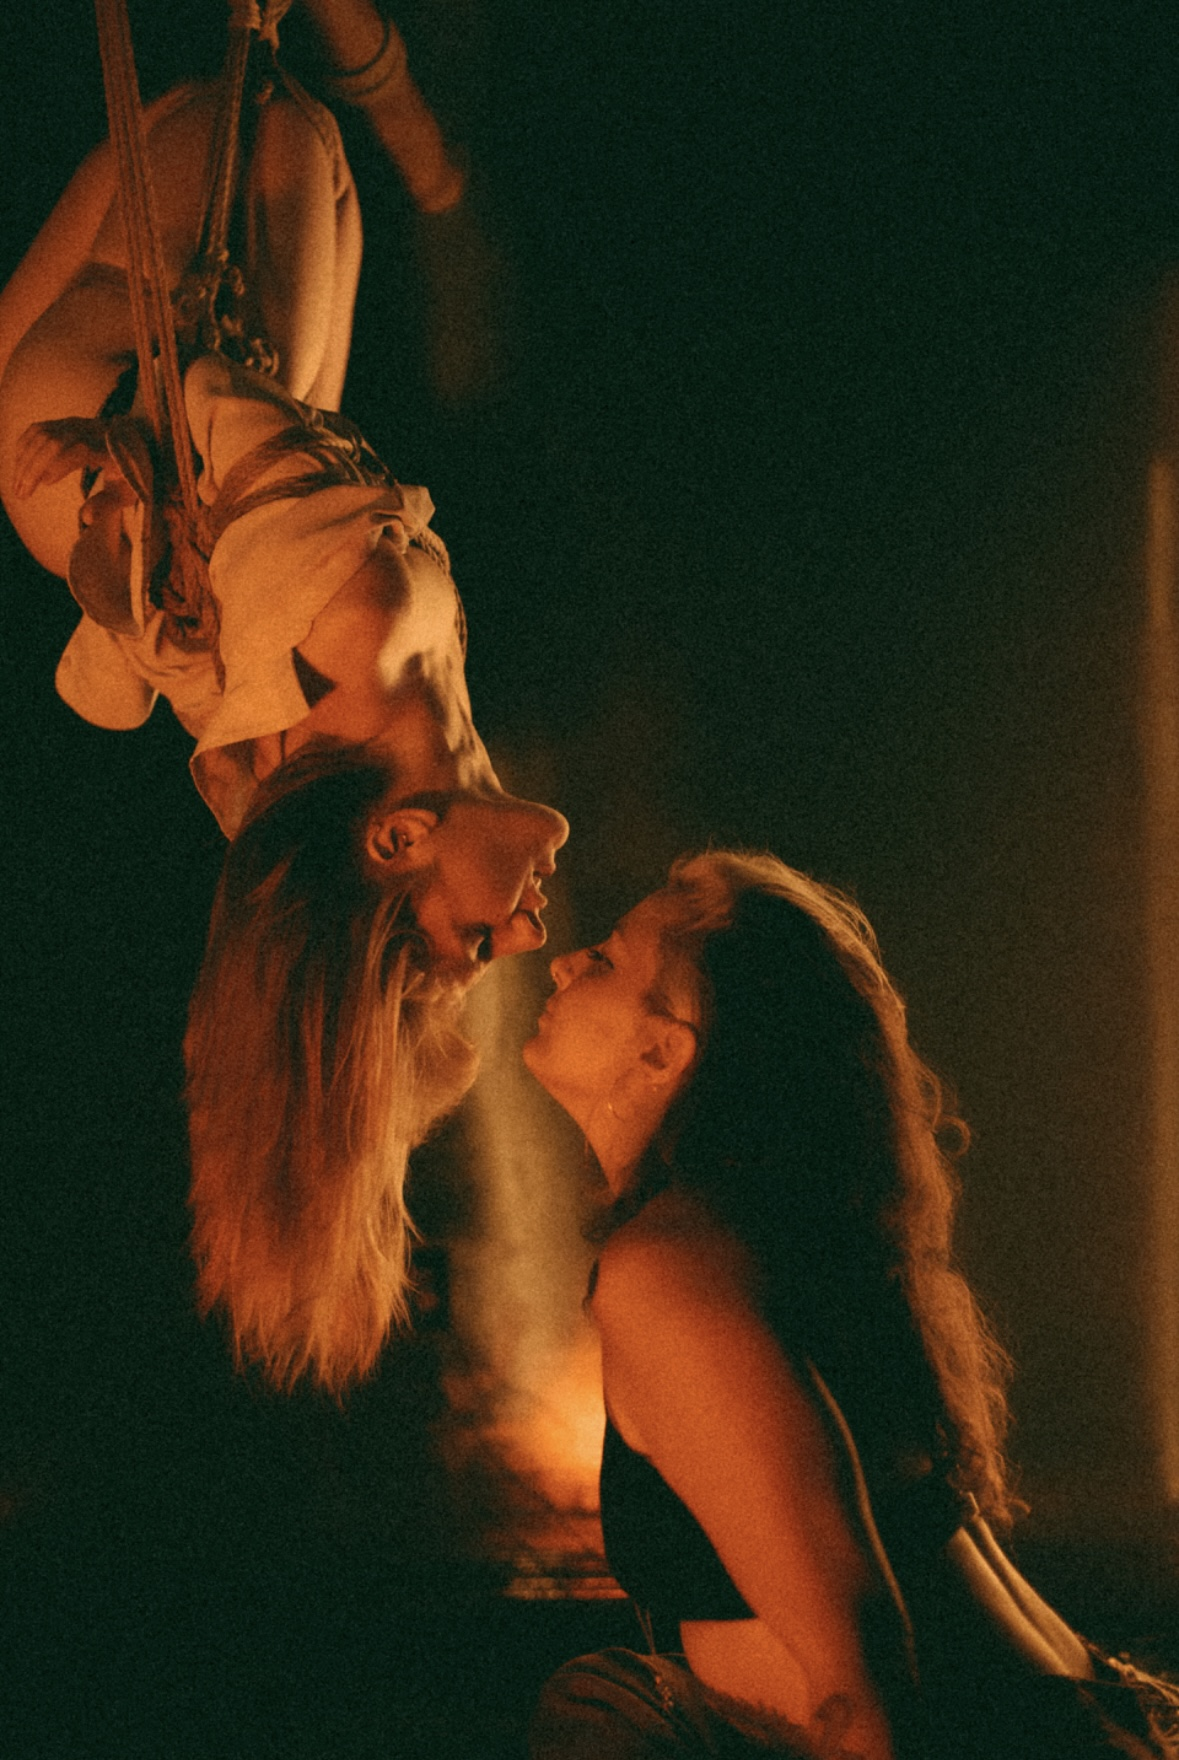
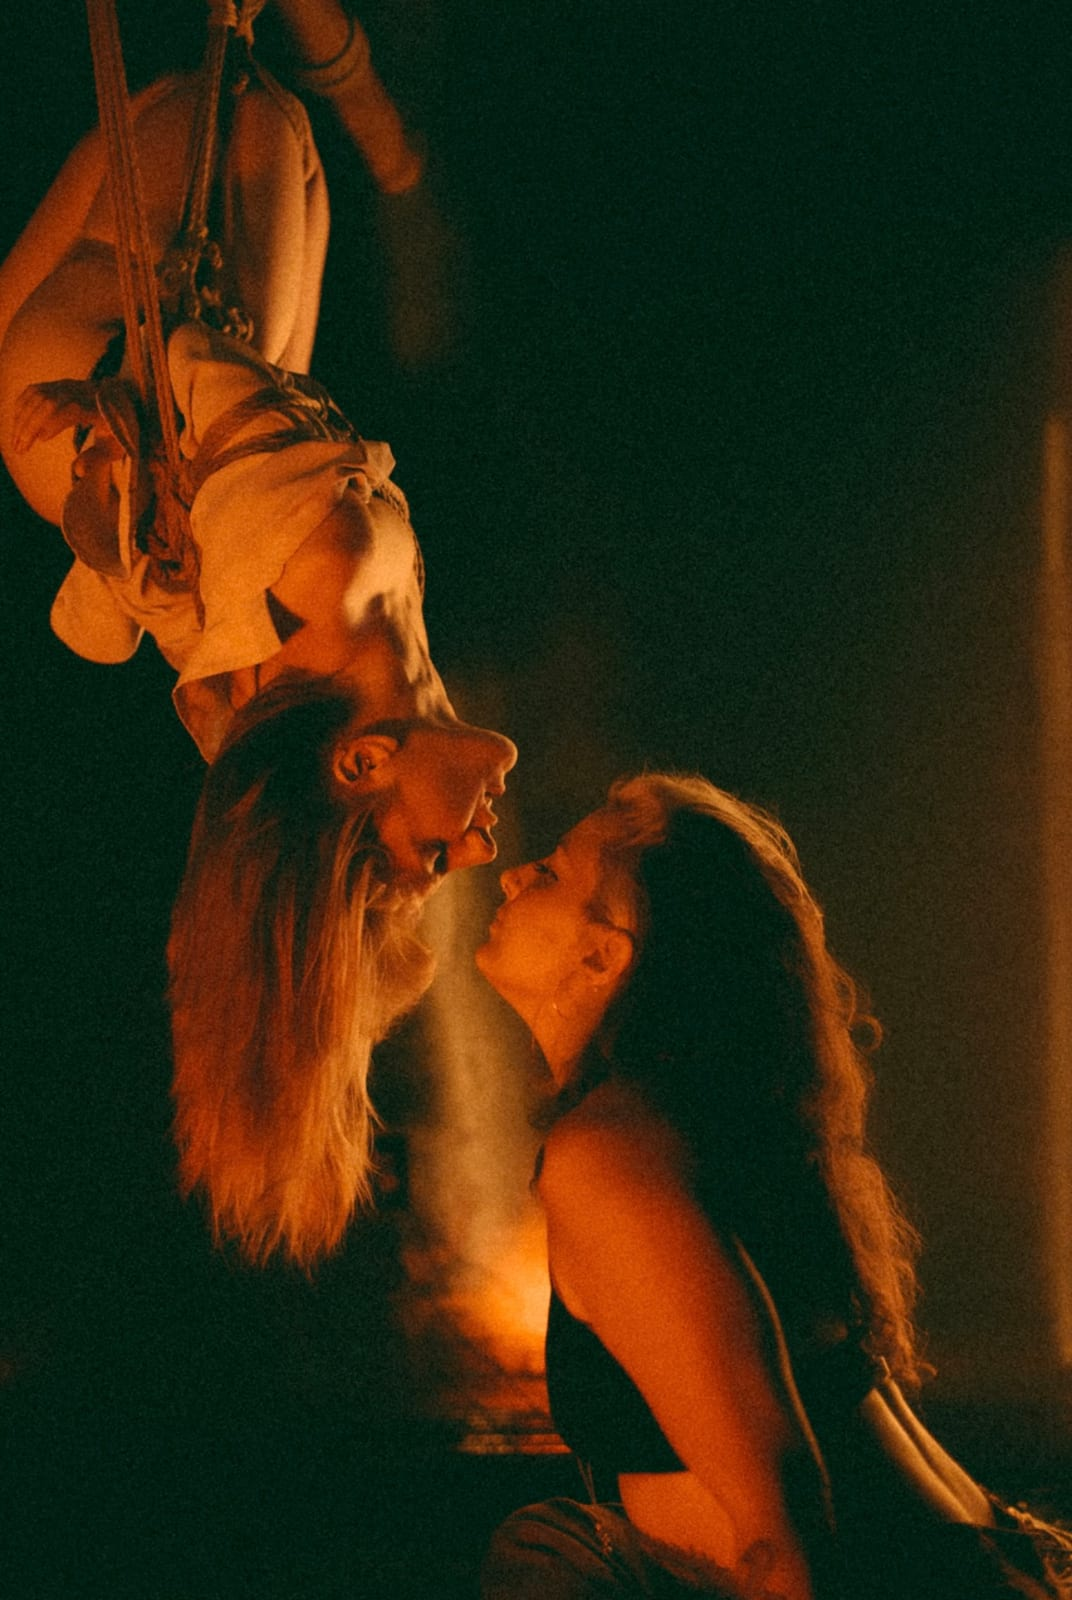
fix: correct presenter photo path mismatches and compress all images
Several duo presenter photos referenced filenames that didn't exactly
match what was committed (wrong extension or wrong case), which broke
on Vercel's case-sensitive filesystem even though it worked locally on
Windows. Also compresses every presenter photo (some were 15-25MB
camera originals) down to a web-appropriate size (~106MB -> ~3MB total).

diff --git a/content/flare-2026/presenters/cccj.md b/content/flare-2026/presenters/cccj.md
@@ -4,7 +4,9 @@ slug: cccj
 pronouns:
   - 'he/him'
   - 'they/them'
-photo: /images/presenters/flameHolder.png
+photo:
+  - /images/presenters/chin.jpg
+  - /images/presenters/jane.jpeg
 social:
   fetlife:
     - https://fetlife.com/Chingon_Cuerdas

diff --git a/content/flare-2026/presenters/fd.md b/content/flare-2026/presenters/fd.md
@@ -4,7 +4,9 @@ slug: fd
 pronouns:
   - 'she/her'
   - 'he/him'
-photo: /images/presenters/flameHolder.png
+photo:
+  - /images/presenters/fuoco.jpg
+  - /images/presenters/frank.jpeg
 social:
   fetlife:
     - https://fetlife.com/-fuoco-

diff --git a/content/flare-2026/presenters/sbm.md b/content/flare-2026/presenters/sbm.md
@@ -6,7 +6,7 @@ pronouns:
   - 'she/her'
 photo:
   - /images/presenters/shak.jpg
-  - /images/presenters/Mag.jpg
+  - /images/presenters/mag.jpg
 social:
   fetlife:
     - https://fetlife.com/ShaktiBliss

diff --git a/content/flare-2026/presenters/sf.md b/content/flare-2026/presenters/sf.md
@@ -4,7 +4,7 @@ slug: sf
 pronouns:
   - 'she/her'
   - 'she/they'
-photo: /images/presenters/sf.png
+photo: /images/presenters/sf.jpg
 social:
   fetlife:
     - https://fetlife.com/Test

diff --git a/content/flare-2026/presenters/lh.md b/content/flare-2026/presenters/lh.md
@@ -4,7 +4,7 @@ slug: lh
 pronouns:
   - 'he/they'
   - 'he/they'
-photo: /images/presenters/lh.png
+photo: /images/presenters/lh.jpg
 social:
   fetlife:
     - https://fetlife.com/Lief

diff --git a/content/flare-2026/presenters/emnira.md b/content/flare-2026/presenters/emnira.md
@@ -5,7 +5,7 @@ pronouns:
   - 'he/him'
   - 'she/her'
 photo:
-  - /images/presenters/em.jpg
+  - /images/presenters/EM.jpg
   - /images/presenters/NiraL.jpg
 social:
   fetlife:
